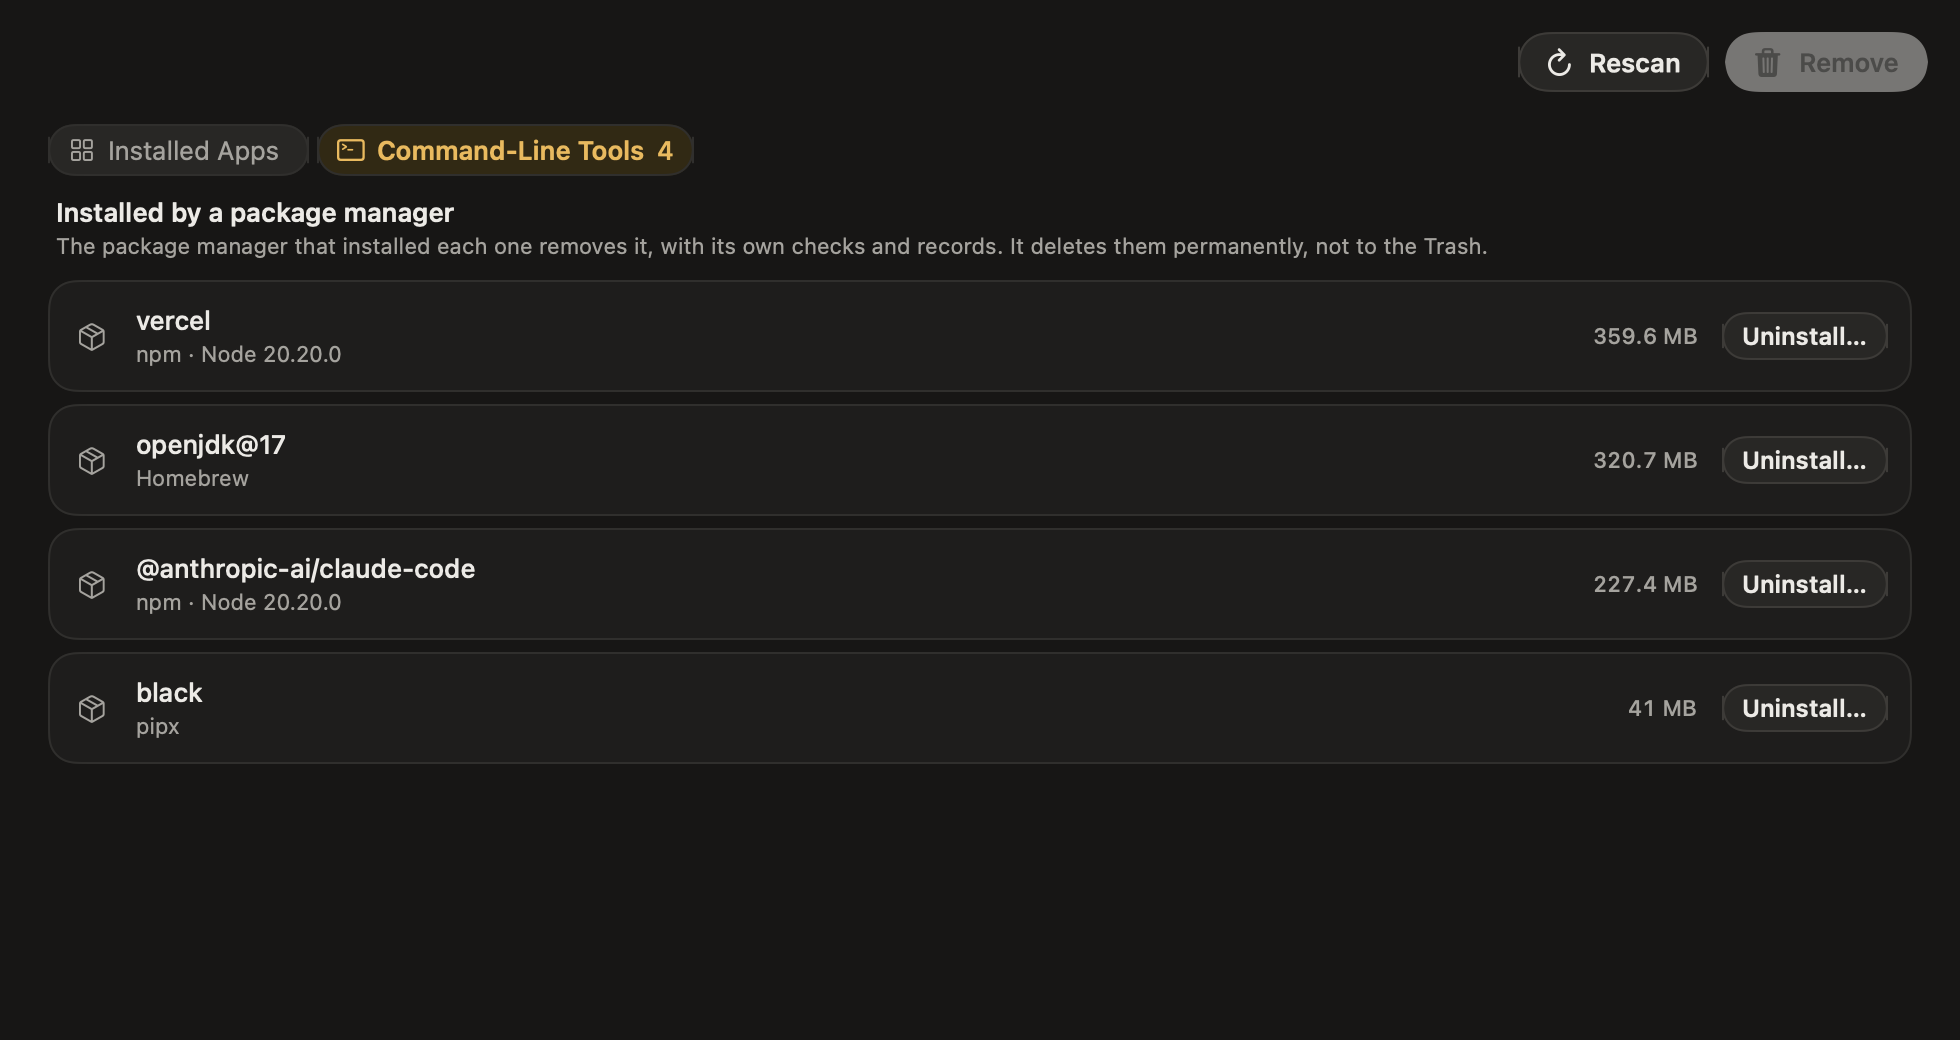
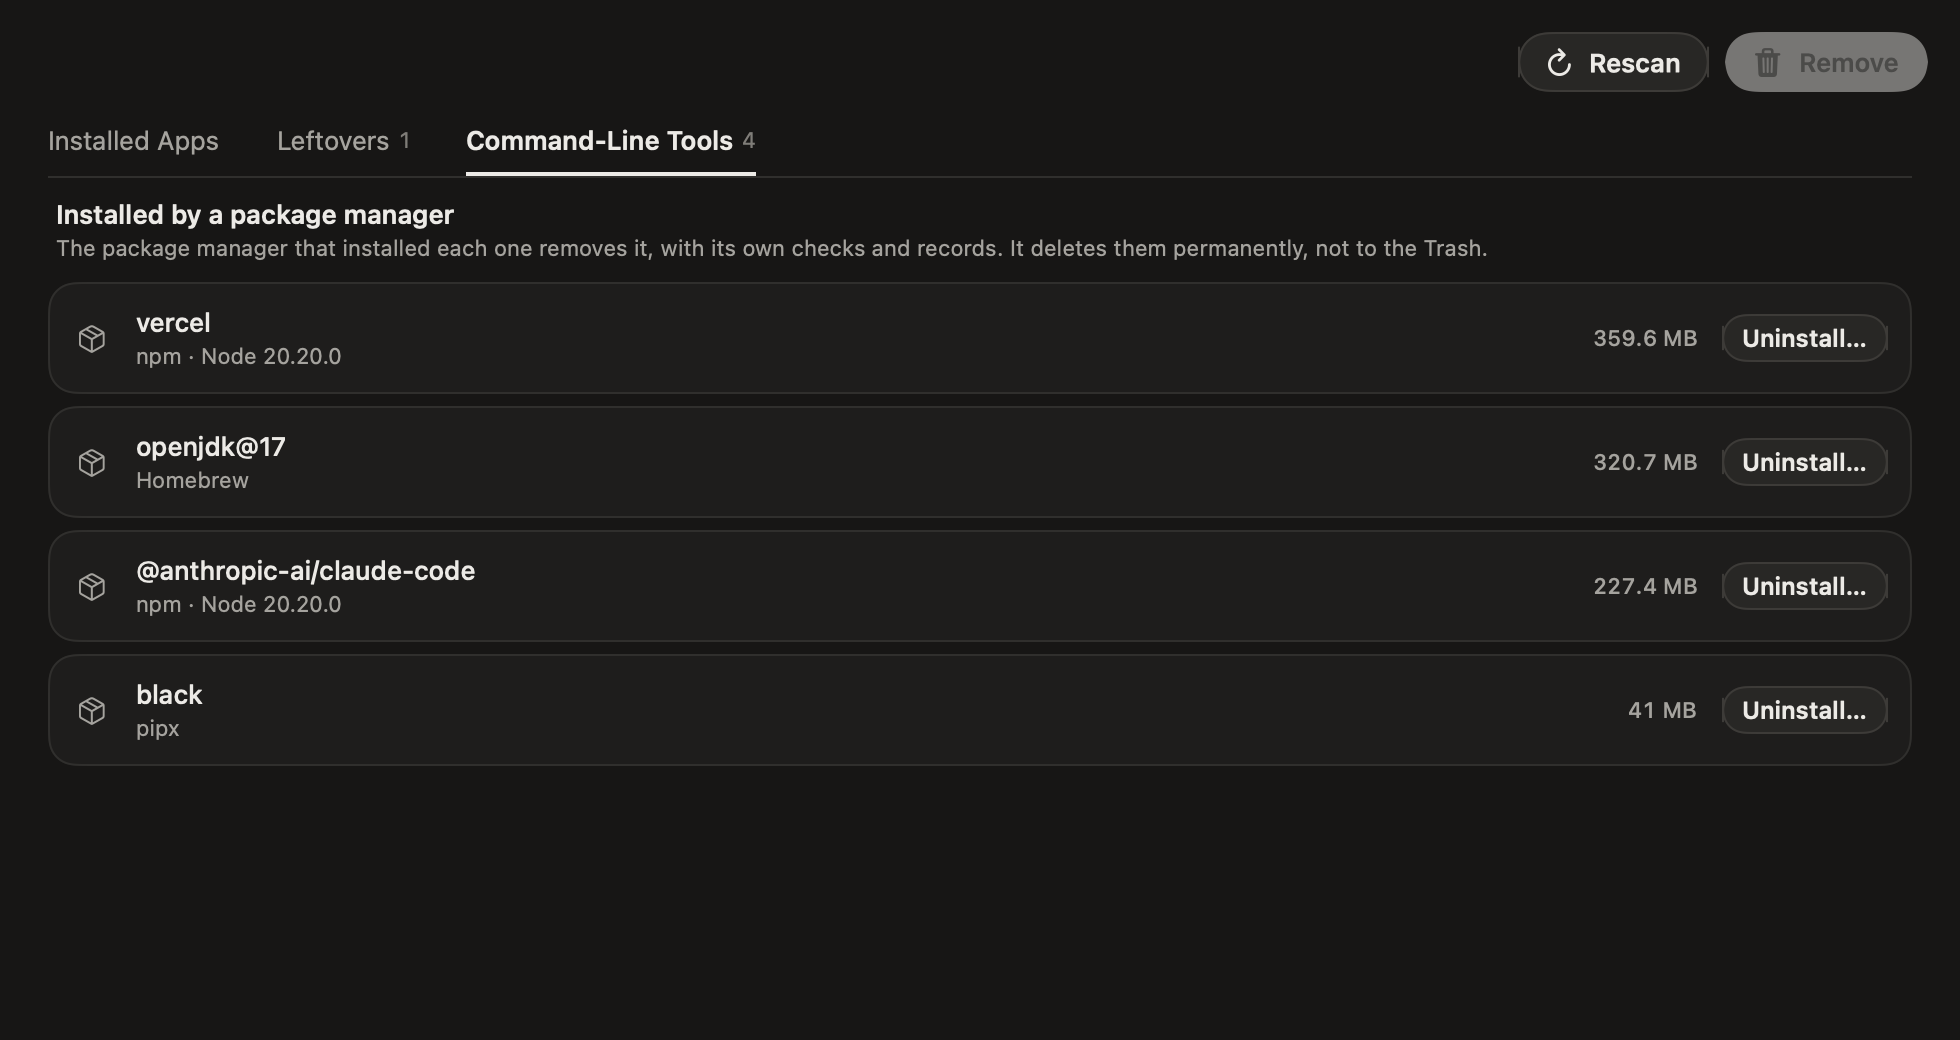
feat: switch uninstaller sections with underline tabs on their own row (#225)
With a third section the chips, sort menu, search and view switcher no
longer fit one row at 790pt: the Command-Line Tools chip was squeezed
taller and the view switcher ran off the edge. The sections now sit as
underline tabs with counts on their own row, and sort, search and view
sit below on Installed Apps only. Each tab keeps its semibold width, so
the row never shifts as the selection moves.

diff --git a/purge/Views/UninstallView.swift b/purge/Views/UninstallView.swift
@@ -162,6 +162,7 @@ struct UninstallView: View {
     /// Shared geometry for sort reorders so the same app slides to its new slot
     /// instead of fading out in one place and in from another.
     @Namespace private var listReorderNamespace
+    @Namespace private var sectionTabNamespace
     @Namespace private var gridReorderNamespace
 
     var body: some View {
@@ -348,70 +349,93 @@ struct UninstallView: View {
     // not something anyone means to do, and offering it invites an accident.
 
     private var controls: some View {
-        HStack(spacing: 12) {
+        VStack(alignment: .leading, spacing: AppStyle.Spacing.small) {
             if showsLeftoversSegment || showsCommandLineToolsSegment {
-                sectionSegments
+                sectionTabs
             }
 
-            // Sort, search and view mode apply to installed apps only; hide
-            // them on the
-            // leftovers view so its controls (Select all, Remove) stand alone.
+            // Sort, search and view mode apply to installed apps only. The
+            // other sections bring their own Select All row.
             if section == .installedApps {
-                AppDropdown(
-                    options: AppSortOption.allCases,
-                    selection: currentSort,
-                    optionLabel: { $0.displayName },
-                    isOptionEnabled: { option in
-                        !option.needsFullMeasurement || store.hasMeasuredAllRemovableTotals
-                    },
-                    onSelect: { option in
-                        guard option != selectedSort else { return }
-                        if reduceMotion {
-                            selectedSort = option
-                        } else {
-                            withAnimation(tileReorderAnimation) { selectedSort = option }
-                        }
-                    }
-                ) {
-                    FilterChip(
-                        style: .dropdown,
-                        label: currentSort.shortDisplayName,
-                        leadingSystemImage: "arrow.up.arrow.down"
-                    )
+                HStack(spacing: AppStyle.Spacing.small) {
+                    sortMenu
+                    Spacer(minLength: AppStyle.Spacing.xSmall)
+                    UninstallSearchField(query: $appSearchQuery)
+                    viewModePicker
                 }
-                .buttonStyle(.plain)
-                .fixedSize()
-                .accessibilityLabel("Sort apps")
-                .accessibilityValue(currentSort.displayName)
-
-                Spacer(minLength: 8)
-                UninstallSearchField(query: $appSearchQuery)
-                viewModePicker
-            } else {
-                Spacer(minLength: 8)
             }
         }
         .padding(.horizontal, AppDetailPageLayout.horizontalInset)
     }
 
-    /// The Installed Apps / Leftovers switcher, reusing the tab-style chip the
-    /// App Caches safety filter uses so it reads as a first-class view switch.
-    private var sectionSegments: some View {
-        HStack(spacing: 4) {
-            segmentChip(.installedApps, count: nil)
-            if showsLeftoversSegment {
-                segmentChip(.leftovers, count: store.orphanLeftovers.count)
+    private var sortMenu: some View {
+        AppDropdown(
+            options: AppSortOption.allCases,
+            selection: currentSort,
+            optionLabel: { $0.displayName },
+            isOptionEnabled: { option in
+                !option.needsFullMeasurement || store.hasMeasuredAllRemovableTotals
+            },
+            onSelect: { option in
+                guard option != selectedSort else { return }
+                if reduceMotion {
+                    selectedSort = option
+                } else {
+                    withAnimation(tileReorderAnimation) { selectedSort = option }
+                }
             }
-            if showsCommandLineToolsSegment {
-                segmentChip(
-                    .commandLineTools,
-                    count: store.commandLineTools.standalone.count + store.commandLineTools.managed.count
-                )
+        ) {
+            FilterChip(
+                style: .dropdown,
+                label: currentSort.shortDisplayName,
+                leadingSystemImage: "arrow.up.arrow.down"
+            )
+        }
+        .buttonStyle(.plain)
+        .fixedSize()
+        .accessibilityLabel("Sort apps")
+        .accessibilityValue(currentSort.displayName)
+    }
+
+    /// Installed Apps, Leftovers and Command-Line Tools as underline tabs on
+    /// their own row, so the switcher never competes with sort and search for
+    /// width. Shown once a second section has something.
+    private var sectionTabs: some View {
+        VStack(spacing: 0) {
+            HStack(spacing: AppStyle.Spacing.large) {
+                sectionTab(.installedApps, count: store.installedApps.isEmpty ? nil : store.installedApps.count)
+                if showsLeftoversSegment {
+                    sectionTab(.leftovers, count: store.orphanLeftovers.count)
+                }
+                if showsCommandLineToolsSegment {
+                    sectionTab(
+                        .commandLineTools,
+                        count: store.commandLineTools.standalone.count + store.commandLineTools.managed.count
+                    )
+                }
+                Spacer(minLength: 0)
+            }
+            Rectangle()
+                .fill(AppColors.borderSubtle)
+                .frame(height: 1)
+        }
+    }
+
+    private func sectionTabLabel(_ target: UninstallSection, count: Int?, weight: Font.Weight) -> some View {
+        HStack(spacing: AppStyle.Spacing.xxSmall) {
+            Text(target.label)
+                .font(AppStyle.Typography.body.weight(weight))
+            if let count {
+                Text("\(count)")
+                    .font(AppStyle.Typography.metadata)
+                    .monospacedDigit()
+                    .foregroundStyle(AppColors.textTertiary)
+                    .contentTransition(reduceMotion ? .identity : .numericText())
             }
         }
     }
 
-    private func segmentChip(_ target: UninstallSection, count: Int?) -> some View {
+    private func sectionTab(_ target: UninstallSection, count: Int?) -> some View {
         let isOn = section == target
         return Button {
             if reduceMotion {
@@ -420,14 +444,30 @@ struct UninstallView: View {
                 withAnimation(.easeInOut(duration: 0.2)) { store.uninstallSection = target }
             }
         } label: {
-            FilterChip(
-                style: .tab,
-                label: target.label,
-                isSelected: isOn,
-                tier: target == .installedApps ? .neutral : .checkFirst,
-                leadingSystemImage: target.symbolName,
-                count: count
-            )
+            VStack(spacing: AppStyle.Spacing.xSmall) {
+                // The tab keeps its semibold width either way, so the row never
+                // shifts when the selection moves; the spare space sits at the end.
+                ZStack(alignment: .leading) {
+                    sectionTabLabel(target, count: count, weight: .semibold)
+                        .opacity(0)
+                        .accessibilityHidden(true)
+                    sectionTabLabel(target, count: count, weight: isOn ? .semibold : .regular)
+                }
+                .foregroundStyle(isOn ? AppColors.textPrimary : AppColors.textSecondary)
+                .lineLimit(1)
+
+                ZStack {
+                    Rectangle().fill(Color.clear).frame(height: 2)
+                    if isOn {
+                        Rectangle()
+                            .fill(AppColors.actionPrimary)
+                            .frame(height: 2)
+                            .matchedGeometryEffect(id: "sectionTabUnderline", in: sectionTabNamespace)
+                    }
+                }
+            }
+            .fixedSize()
+            .contentShape(Rectangle())
         }
         .buttonStyle(.plain)
         .accessibilityLabel(count.map { "\(target.label), \($0) items" } ?? target.label)
